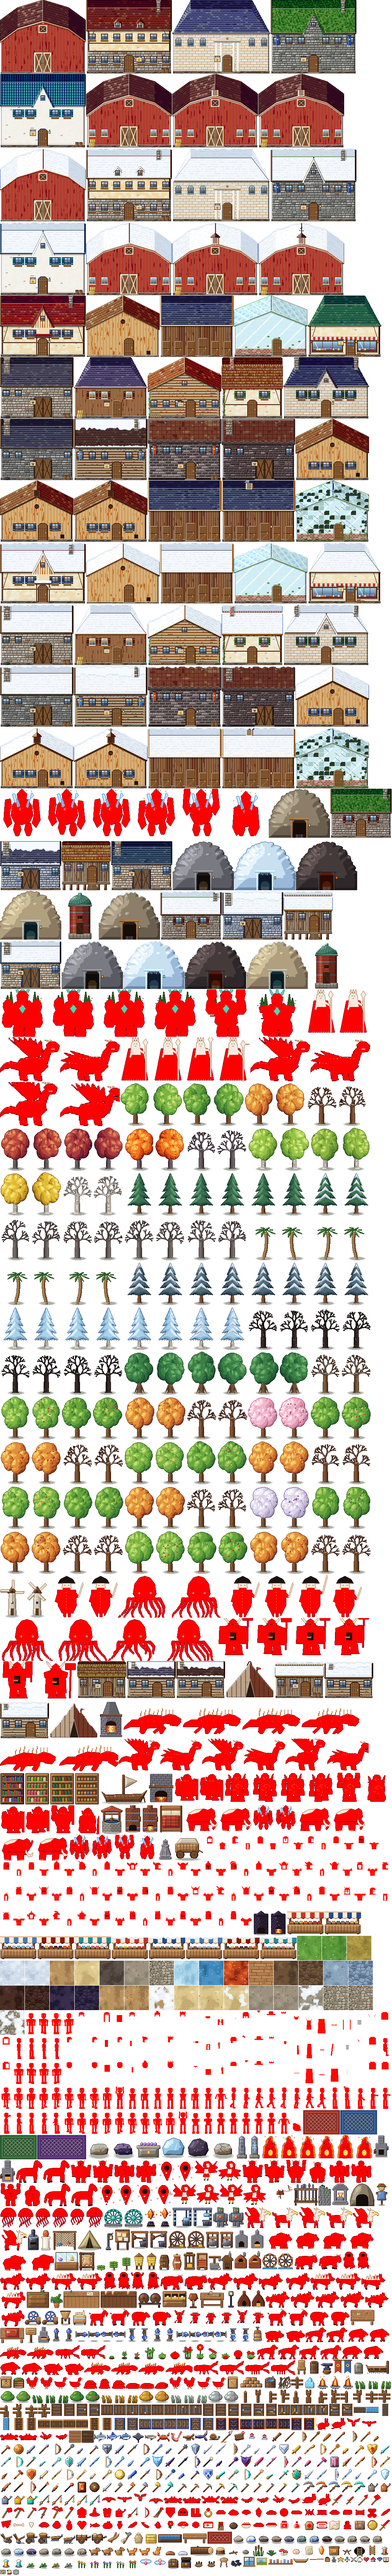
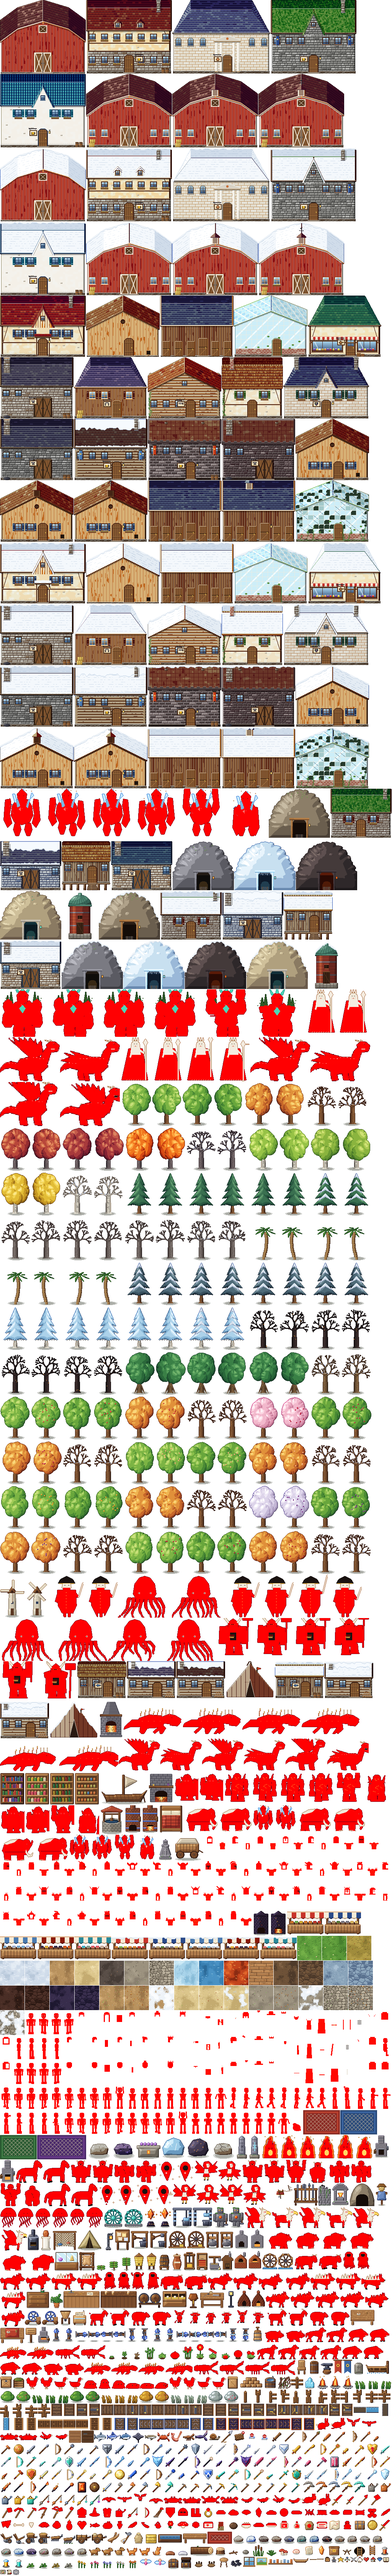
Painted trade signs hanging by each shop door instead of floating name plates; the door prompt names the building

diff --git a/public/js/x_fixes.js b/public/js/x_fixes.js
@@ -35,7 +35,7 @@ genVillage = function () {
 /* A2 The map (M) on the farm, the village and other small places drew the Wilds chart, which is blank
       until explored. Small maps now get their own map: ground, trees and rocks, buildings with their
       names, exits with where they lead, signposts, and a "You" marker. The Wilds chart is a button away. */
-const BLD_N = { store: 'Mara\'s Store', smith: 'Brann\'s Smithy', carpenter: 'Hale\'s Carpentry', tavern: 'Tavern', stablemaster: 'Odile\'s Stables', museum: 'Museum',
+const BLD_N = { store: 'Mara\'s Store', smith: 'Brann\'s Smithy', carpenter: 'Hale\'s Carpentry', tavern: 'The Drowsy Drake', stablemaster: 'Odile\'s Stables', museum: 'Museum',
   landowner: 'Manor (land)', house: 'Your house', tent: 'Your tent', coop: 'Coop', barn: 'Barn', stable: 'Stable', greenhouse: 'Greenhouse', bank: 'Storage shed', silo: 'Silo', stall: 'Market stall', site: 'Build site', fisher: 'Fisher\'s hut', cottage: 'Cottage', mine: 'Mine' };
 const MAP_N = { farm: 'Hollowmere Farm', village: 'Emberhollow Village', wilds: 'The Wilds', greenhouse: 'Greenhouse' };
 const placeName = id => MAP_N[id] || (typeof REGIONS !== 'undefined' && REGIONS[id] ? REGIONS[id].n : (MAPS[id] && MAPS[id].name) || id);

diff --git a/public/js/x_prompt.js b/public/js/x_prompt.js
@@ -12,7 +12,9 @@ hudTick = function (dt) {
   const rows = [];
   if (S && !TITLE && !PAUSED && !MODAL && !fishing && cur && !(typeof DIALOG !== 'undefined' && DIALOG) && !(typeof PLACING !== 'undefined' && PLACING)) {
     const it = findInteract();
-    if (it && it.label) rows.push([bindKey('interact', 'e'), it.label]);
+    let place = '';
+    if (it && it.label && typeof BLD_N === 'object') { const [tx, ty] = faceTile(); const b = (cur.bld || []).find(b => b.door && b.door.x === tx && b.door.y === ty && b.act); if (b && BLD_N[b.act]) place = BLD_N[b.act]; }
+    if (it && it.label) rows.push([bindKey('interact', 'e'), place && !place.includes(it.label) ? it.label + ' · ' + place : place || it.label]);
     if (typeof hitchK === 'function' && hitchK()) {
       if (S.hitch.k !== 'cart') rows.push(['G', S.hitch.on ? 'Raise the ' + IT[S.hitch.k].n.toLowerCase() : 'Lower the ' + IT[S.hitch.k].n.toLowerCase()]);
       if (!it) rows.push([bindKey('interact', 'e'), 'Unhitch here']);

diff --git a/public/js/x_ui.js b/public/js/x_ui.js
@@ -130,9 +130,9 @@ doorAction = function (act, who) {
   return _doorActionU(act, who);
 };
 const _pcCursorDrawU = pcCursorDraw;
-pcCursorDraw = function (m) { // name plates over the village doors
+pcCursorDraw = function (m) { // (the floating name plates are gone: the buildings carry painted trade signs, and the door prompt says the name)
   _pcCursorDrawU(m);
-  if (TITLE || !m || m.id !== 'village') return;
+  return;
   g.save(); g.font = '600 7px Fredoka, sans-serif'; g.textAlign = 'center';
   for (const b of m.bld) { const n = BLD_N[b.act]; if (!n || b.act === 'house') continue; const x = (b.door.x + .5) * 16, y = b.door.y * 16 - 3, w = g.measureText(n).width + 8;
     g.fillStyle = 'rgba(58,36,20,.92)'; g.fillRect(Math.round(x - w / 2), y - 8, Math.round(w), 10); g.fillStyle = '#ffe8b8'; g.fillText(n, x, y); }

diff --git a/art/sprites/buildings.py b/art/sprites/buildings.py
@@ -52,7 +52,7 @@ STY = {
     'museum': dict(roof='hip', rmat='slate', rcol='#5e6e8e', wmat='ashlar', wcol='#e2dccc', trim='#8a8478', portico=1, arched=1, icon='urn', rf=.46),
     'hut': dict(roof='side', rmat='thatch', rcol='#a89a5a', wmat='boards', wcol='#9a8466', trim='#4a3020', icon='fish', nets=1, barrels=1, rf=.44),
     'cabin': dict(roof='side', rmat='slate', rcol='#6a6070', wmat='logs', wcol='#8a6a48', trim='#3a2618', chim=('stone', 12), snow=1, wood=1, rf=.46),
-    'manor': dict(roof='hip', rmat='slate', rcol='#3e4a6a', wmat='ashlar', wcol='#d8d0c0', trim='#5a4a3a', cross=1, chim=('stone', 30), chim2=1,
+    'manor': dict(roof='hip', rmat='slate', rcol='#3e4a6a', wmat='ashlar', wcol='#d8d0c0', trim='#5a4a3a', cross=1, icon='crest', chim=('stone', 30), chim2=1,
                   shut='#2e4a3a', boxes=1, tall=1, lantern=1, rf=.48),
 }
 
@@ -566,22 +566,48 @@ def awning(s, col, y, x0, x1):
     eave_shadow(s, x0, x1, y + 9, 3)
 
 
+SIGN_PAL = {'k': '#241812', 'g': '#3a3a42', 'G': '#6a6a78', 's': '#9a9aa8', 'S': '#d0d4dc', 'b': '#6a4426', 'B': '#3a2416', 'c': '#a8743f', 'y': '#e8b830',
+            'Y': '#a87a18', 'r': '#c8342a', 'w': '#f6f0e0', 'f': '#f0e2c0', 'a': '#d07a3a', 'A': '#8a4418', 'o': '#4a7ab0', 'O': '#2a4a7a', 'e': '#4a9a3a', 'E': '#2a6a26'}
+SIGN_ICONS = {  # 12x9 hand-pixelled trade symbols painted on the board
+    'seed': ["....kk......", "...kbck.....", "..kbccck..k.", ".kbcccbck.kyk", ".kbccccbkkyYk", ".kbcccccb.kk.", ".kbbcccbb....", "..kbbbbb.....", "...kkkkk....."],
+    'anvil': ["............", "kkkkkkkkkk..", "kSssssssGGk.", ".kkkGGGGkk..", "....kGGk....", "....kGGk....", "...kGGGGk...", "..kkkkkkkk..", "............"],
+    'mug': ["..wwwwww....", ".wwwwwwww...", ".kyyyyyyk...", ".kyYyyyykkk.", ".kyYyyyyk.k.", ".kyYyyyyk.k.", ".kyYyyyykkk.", ".kyyyyyyk...", ".kkkkkkkk..."],
+    'horse': ["..kkkkkkk...", ".kGsssssGk..", "kGsk...ksGk.", "kSk.....kSk.", "kSk.....kSk.", "kSk.....kSk.", "kGk.....kGk.", "kkk.....kkk.", "............"],
+    'saw': ["...........k", "kkkkkkkkkkbk", "kSSSSSSSSkbk", "ksksksksskck", ".k.k.k.k.kbk", "..........kk", "............", "............", "............"],
+    'urn': ["....kkkk....", "...kaaaak...", "....kAAk....", "..kaaaaaak..", ".kaawwwaaak.", ".kaAAAAAaak.", "..kaaaaaak..", "...kaaaak...", "...kkkkkk..."],
+    'fish': ["............", "..kkkkk..k..", ".kooooook.kk", "koOwkoooookOk", "kooooooooOk.", ".kOOOOOOk.kk", "..kkkkk..k..", "............", "............"],
+    'crest': [".kkkkkkkkk..", ".kOOyOOOOk..", ".kOyyyOOOk..", ".kOOyOOOOk..", ".kOOOOrrOk..", "..kOOrrOk...", "...kOOOk....", "....kOk.....", ".....k......"],
+}
+
+
 def sign(s, x, y, icon):
-    """A board hanging from an iron bracket fixed to the wall at (x, y)."""
-    s.fill(rect(x, y, 16, 2), '#2a2a30'); s.fill(rect(x + 13, y + 2, 1, 2) | rect(x + 2, y + 2, 1, 2), '#2a2a30')
-    bx, by = x, y + 4
-    s.fill(rect(bx, by, 16, 12), '#5a3a22'); s.fill(rect(bx + 1, by + 1, 14, 10), '#e8d0a0'); s.fill(rect(bx + 1, by + 1, 14, 1), '#f8ead0')
-    s.fill(rect(bx + 1, by + 10, 14, 1), '#b0906a')
-    cx, cy = bx + 8, by + 6
-    g = {'seed': ({(cx - 2, cy), (cx - 1, cy - 1), (cx, cy - 2), (cx + 1, cy - 1), (cx + 2, cy), (cx, cy - 1), (cx, cy), (cx, cy + 1), (cx, cy + 2)}, '#4a9a3a'),
-         'anvil': (rect(cx - 4, cy - 2, 8, 2) | rect(cx - 1, cy, 3, 2) | rect(cx - 3, cy + 2, 6, 1), '#4a4a58'),
-         'mug': (rect(cx - 3, cy - 2, 5, 5) | {(cx + 2, cy - 1), (cx + 3, cy), (cx + 2, cy + 1)}, '#c8901a'),
-         'horse': ({(cx - 3 + k, cy - 2 + abs(k - 3) // 2) for k in range(7)} | {(cx - 3, cy + 1), (cx + 3, cy + 1)}, '#6a6a6a'),
-         'saw': (rect(cx - 4, cy - 1, 7, 2) | rect(cx + 3, cy - 2, 2, 4), '#8a8a94'),
-         'urn': (ellipse(cx, cy + .5, 2.5, 3), '#c8703a'),
-         'fish': (ellipse(cx - 1, cy, 3, 1.6) | {(cx + 2, cy - 1), (cx + 3, cy - 2), (cx + 2, cy + 1), (cx + 3, cy + 2)}, '#4a7ab0')}.get(icon)
+    """A painted trade sign hanging on two chains from a curled iron bracket fixed to the wall at (x, y)."""
+    P = SIGN_PAL
+    for k in range(20):                                          # the bracket arm with a curl at the wall end
+        s.set(x + k, y, P['g']); s.set(x + k, y + 1, P['k'] if k % 5 else P['G'])
+    for (dx, dy) in ((0, -1), (-1, -1), (-1, 0), (-1, 1), (0, 2)):
+        s.set(x + dx, y + dy, P['g'])
+    s.set(x + 1, y + 2, P['g']); s.set(x + 2, y + 3, P['k'])     # brace
+    for cx_ in (x + 4, x + 16):                                  # chains
+        for k in range(3):
+            s.set(cx_, y + 2 + k, P['G'] if k % 2 else P['s'])
+    bx, by, W, H = x + 1, y + 5, 20, 15
+    for yy in range(by, by + H):                                 # the board: dark frame, painted panel, wood grain
+        for xx in range(bx, bx + W):
+            edge = yy in (by, by + H - 1) or xx in (bx, bx + W - 1)
+            inner = yy in (by + 1, by + H - 2) or xx in (bx + 1, bx + W - 2)
+            s.set(xx, yy, P['B'] if edge else P['b'] if inner else P['f'])
+    for xx in range(bx + 2, bx + W - 2):
+        s.set(xx, by + 2, '#fff8ea')                             # lit top of the panel
+        s.set(xx, by + H - 3, '#d8c8a0')
+    s.set(bx + 1, by + 1, P['c']); s.set(bx + W - 2, by + H - 2, P['B'])
+    g = SIGN_ICONS.get(icon)
     if g:
-        s.fill(g[0], g[1])
+        ox, oy = bx + 4, by + 3
+        for r_, row in enumerate(g):
+            for c_, ch in enumerate(row[:13]):
+                if ch in P:
+                    s.set(ox + c_, oy + r_, P[ch])
 
 
 # ---- small props by the walls -------------------------------------------------
@@ -819,7 +845,7 @@ def _building(kind, w, h, lvl=1):
     if st.get('lantern'):
         lantern(s, dcx + 16, dtop + 6)
     if st.get('icon'):
-        sign(s, dcx - 34 if kind != 'tavern' else dcx + 18, max(body_top + 4, dtop + 2), st['icon'])
+        sign(s, dcx - 36 if kind != 'tavern' else dcx + 16, max(body_top + 2, dtop - 2), st['icon'])
     if st.get('barrels'):
         barrel(s, W - ov - 13, H - 1); barrel(s, W - ov - 23, H - 1)
     if st.get('crates'):

diff --git a/CLAUDE.md b/CLAUDE.md
@@ -333,6 +333,9 @@ The rider uses a seated pose (`hb_ride_2` in `human.py`, `humanSpr(..., 'ride')`
 ## Menu dock (`public/js/x_dock.js`, icons in `art/sprites/ui_icons.py`)
 - The top-right `#topr` is a 4-column dock with a labelled tile per tab (Bag, Recipes, Skills, Tree, Combat, Animals, Friends, Family, Collect, Lore, Map, Quests, Options), each with a hand-pixelled 16x16 `ui_<tab>` icon; the open tab's tile is lit and a click on it closes the window. The Satchel's tab row shows the same icons (`drawModal` wrapper).
 
+## Trade signs
+- `sign()` in buildings.py: a 20x15 board on two chains from a curled iron bracket, with a hand-pixelled 12x9 trade symbol (`SIGN_ICONS`: grain sack, anvil, mug, horseshoe, saw, urn, fish, crest for the manor). The floating name plates are off; `x_prompt.js` adds the building's name (`BLD_N`) to the door prompt.
+
 ## Stations, trees, arms and townsfolk
 - `art/sprites/stations_hand.py` redraws the keg, preserves jar, cheese press, loom, oil press, smoker, campfire (3 flame frames), kiln, bread oven, smelter and stone furnace by hand at the old sizes (lit frames carry `meta.light`).
 - `upright()` in handdrawn.py narrows torsos (`P.tw`) so arms hang clear; the troll, basalt golem and crystal creatures have organic part outlines.
